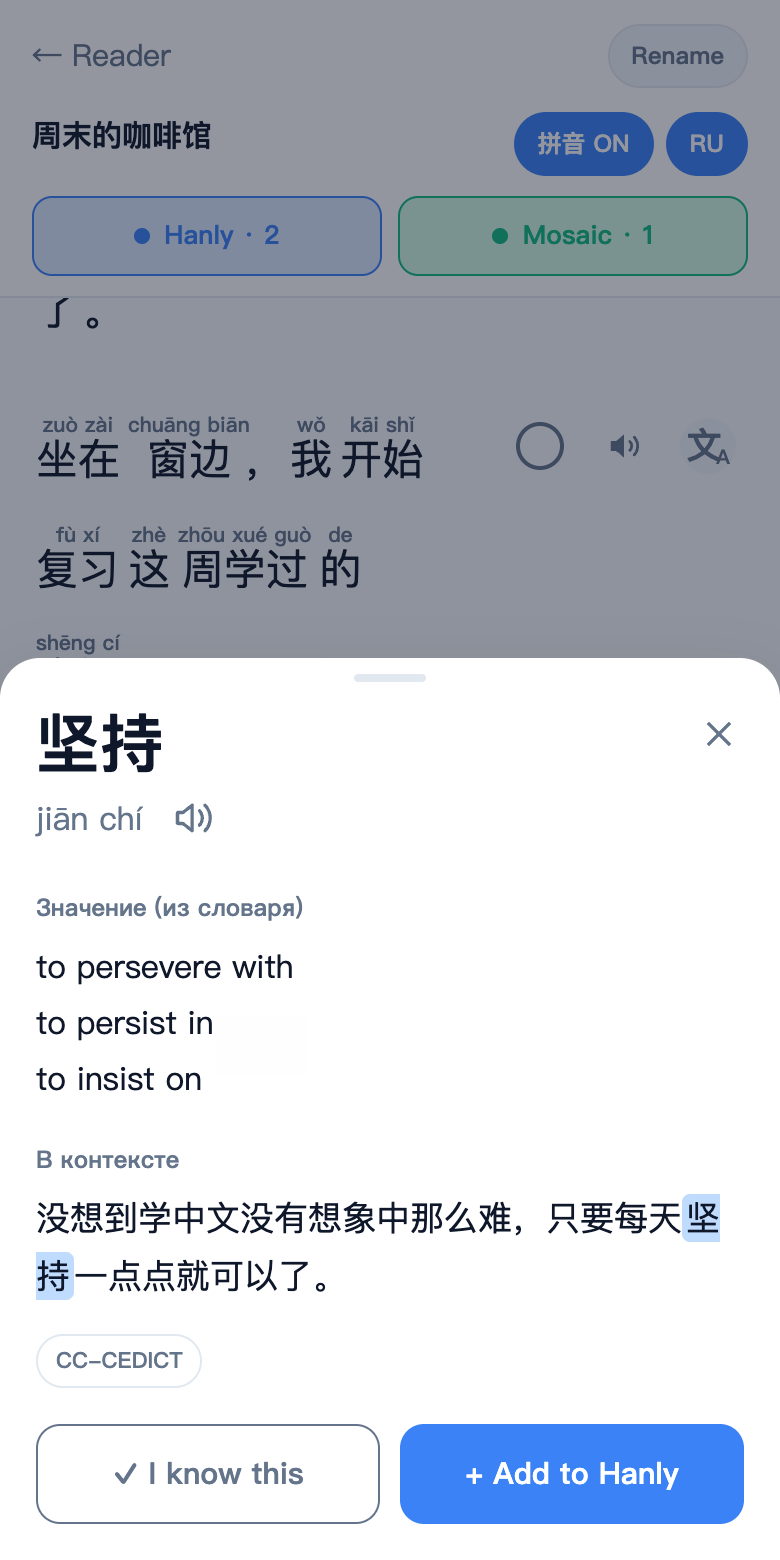
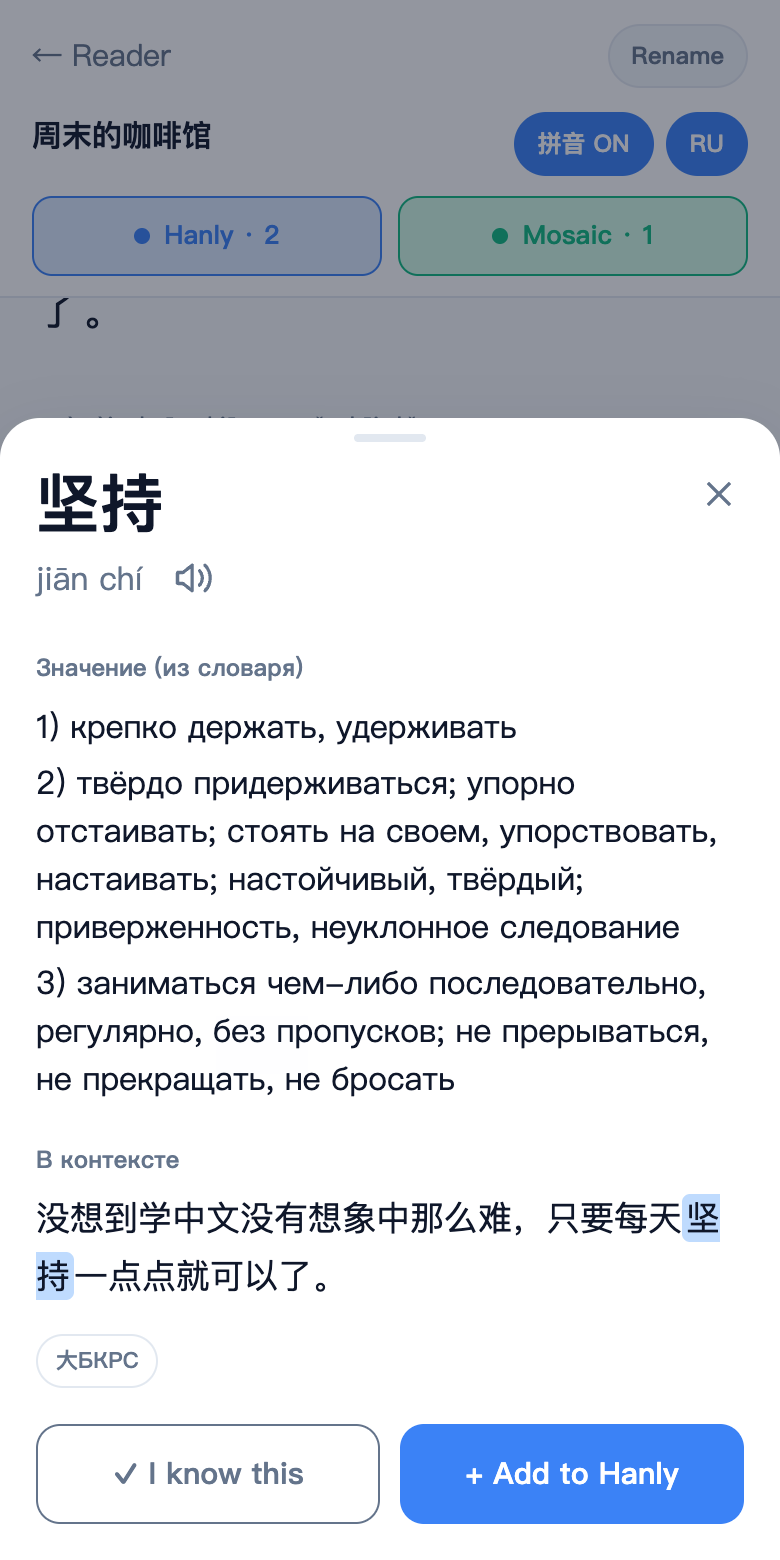
docs: show Russian dictionary meanings in the Reader screenshots

Changed region(s): [[0.0, 0.2462, 1.0, 0.7077], [0.0615, 0.8615, 0.2462, 0.8923]]

diff --git a/README.md b/README.md
@@ -9,19 +9,19 @@ It is built for one person, a Mandarin learner whose native language is Russian,
 <table>
   <tr>
     <td width="25%"><img src="docs/images/01-reader.png" alt="Reader with interlinear pinyin, a sentence selected for Mandarin Mosaic, two words in the Hanly basket and a Russian sentence translation"></td>
-    <td width="25%"><img src="docs/images/02-word.png" alt="Word card for 坚持 with pinyin, pronunciation, CC-CEDICT meanings and the sentence it came from"></td>
+    <td width="25%"><img src="docs/images/02-word.png" alt="Word card for 坚持 with pinyin, pronunciation, Russian dictionary meanings and the sentence it came from"></td>
     <td width="25%"><img src="docs/images/03-selection.png" alt="Native text selection of 没有想象中那么难 with the Make expression and Add to Hanly actions"></td>
     <td width="25%"><img src="docs/images/04-library.png" alt="Reader library listing recent documents"></td>
   </tr>
   <tr>
     <td>Pinyin, sentence translation, Hanly and Mosaic baskets</td>
-    <td>Word card from CC-CEDICT, in context</td>
+    <td>Word card: pinyin, Russian meanings, the sentence it came from</td>
     <td>Select any phrase: make it one expression, or send it to Hanly</td>
     <td>Library of transcripts, pasted text and files</td>
   </tr>
 </table>
 
-Screenshots come from a local Reader with the real CC-CEDICT dictionary and an original sample text.
+Screenshots come from a local Reader with the real CC-CEDICT and 大БКРС dictionaries and an original sample text. The interface speaks Russian because its one user does.
 
 ## What it does
 
